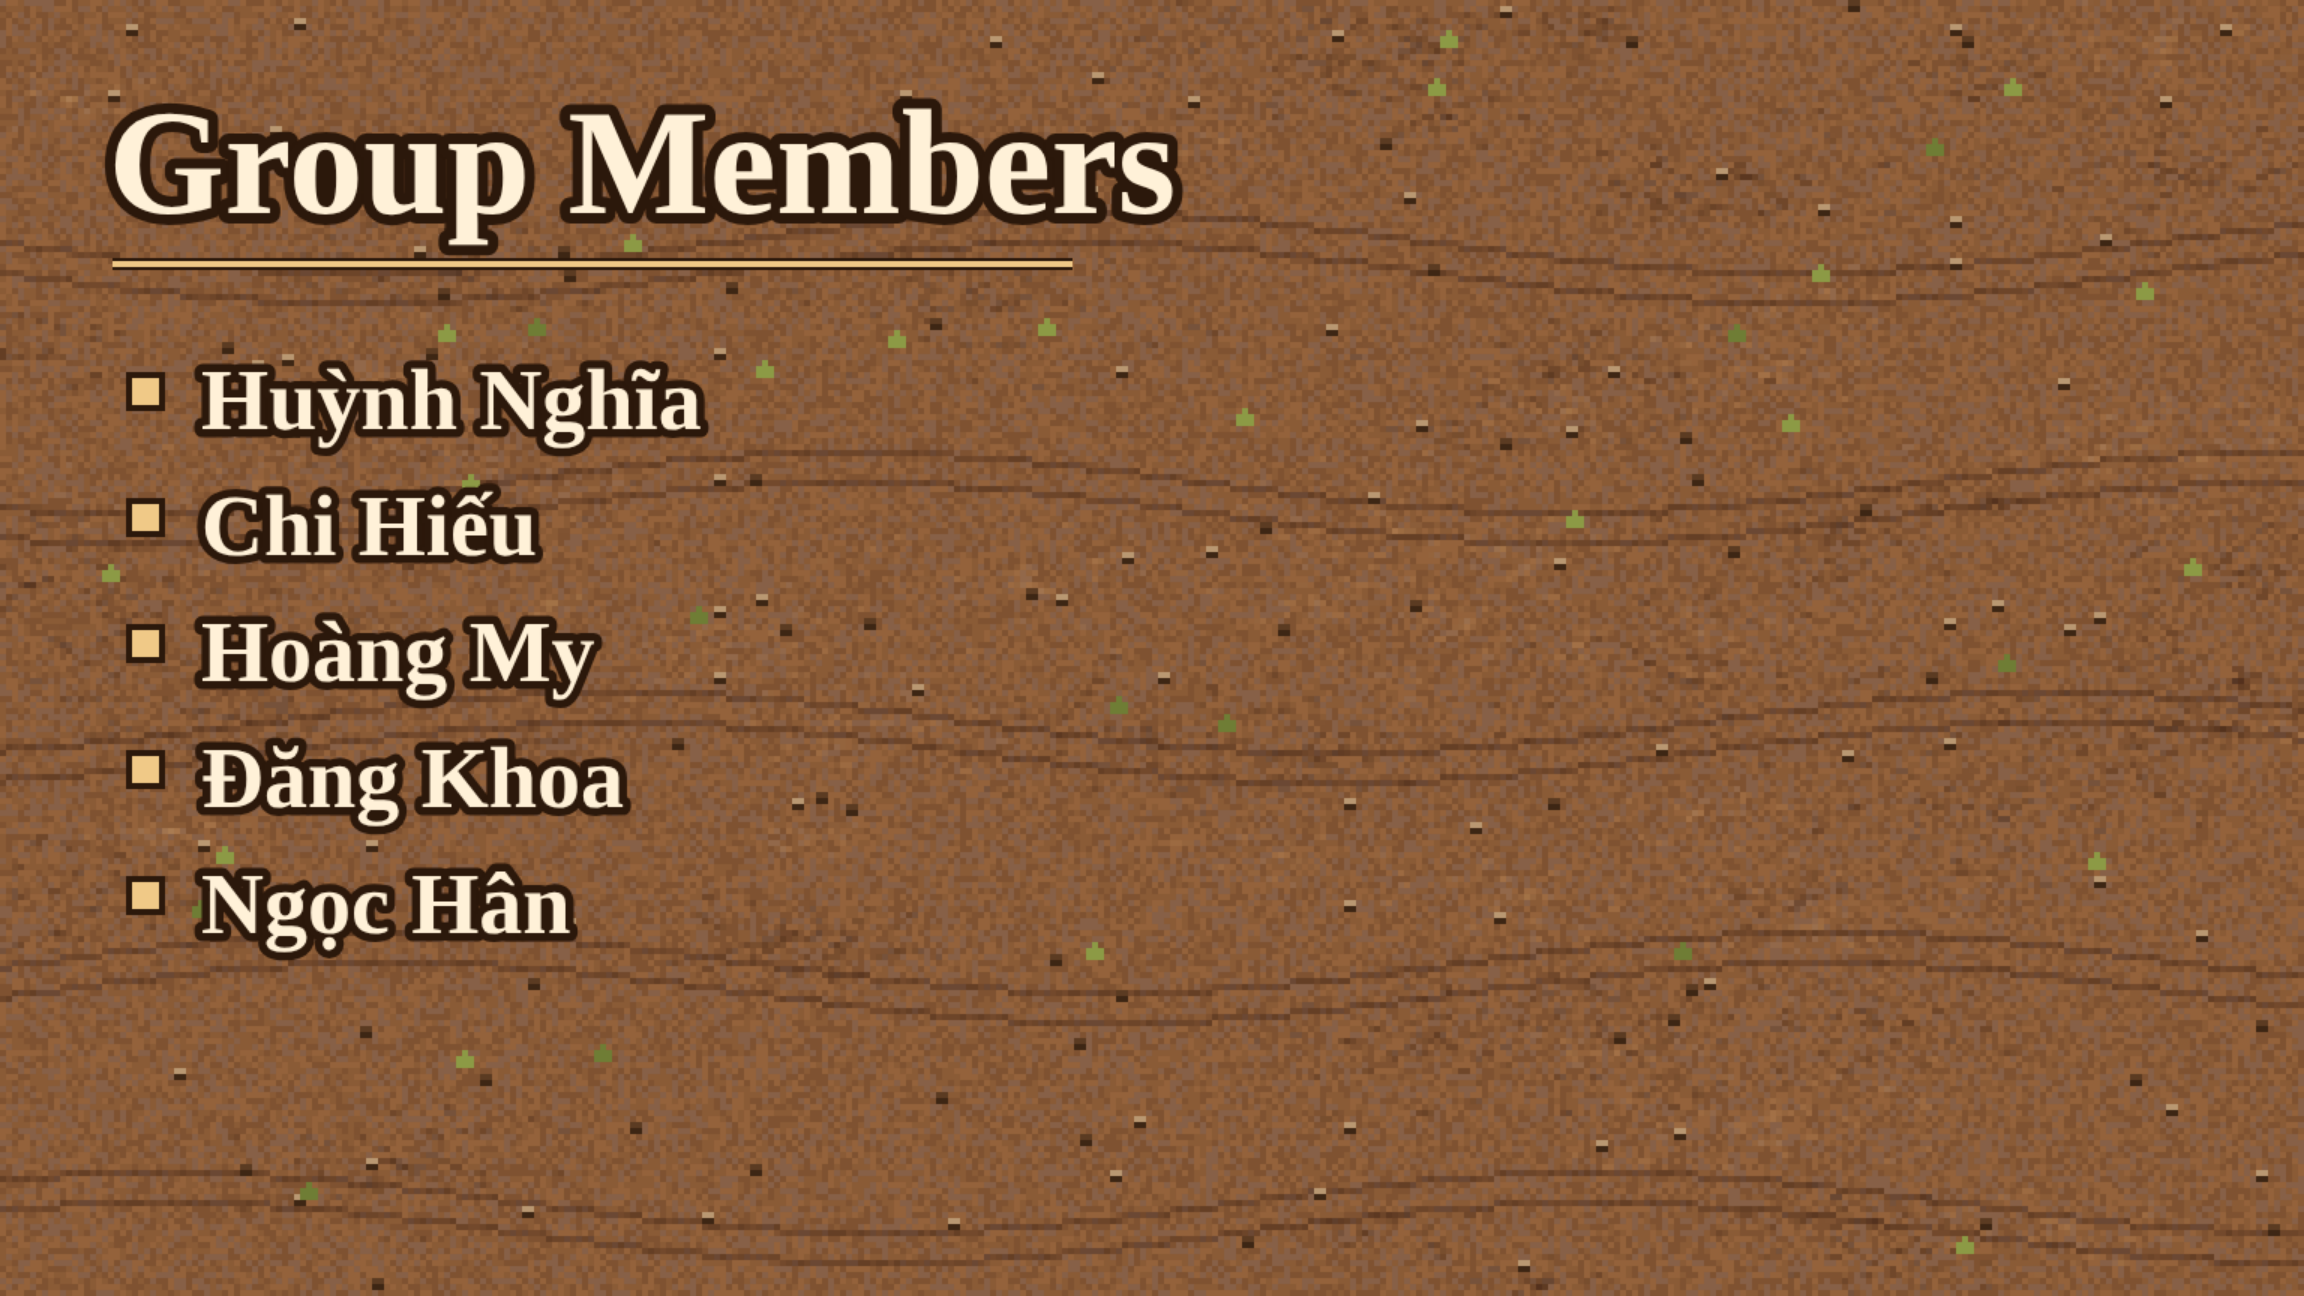
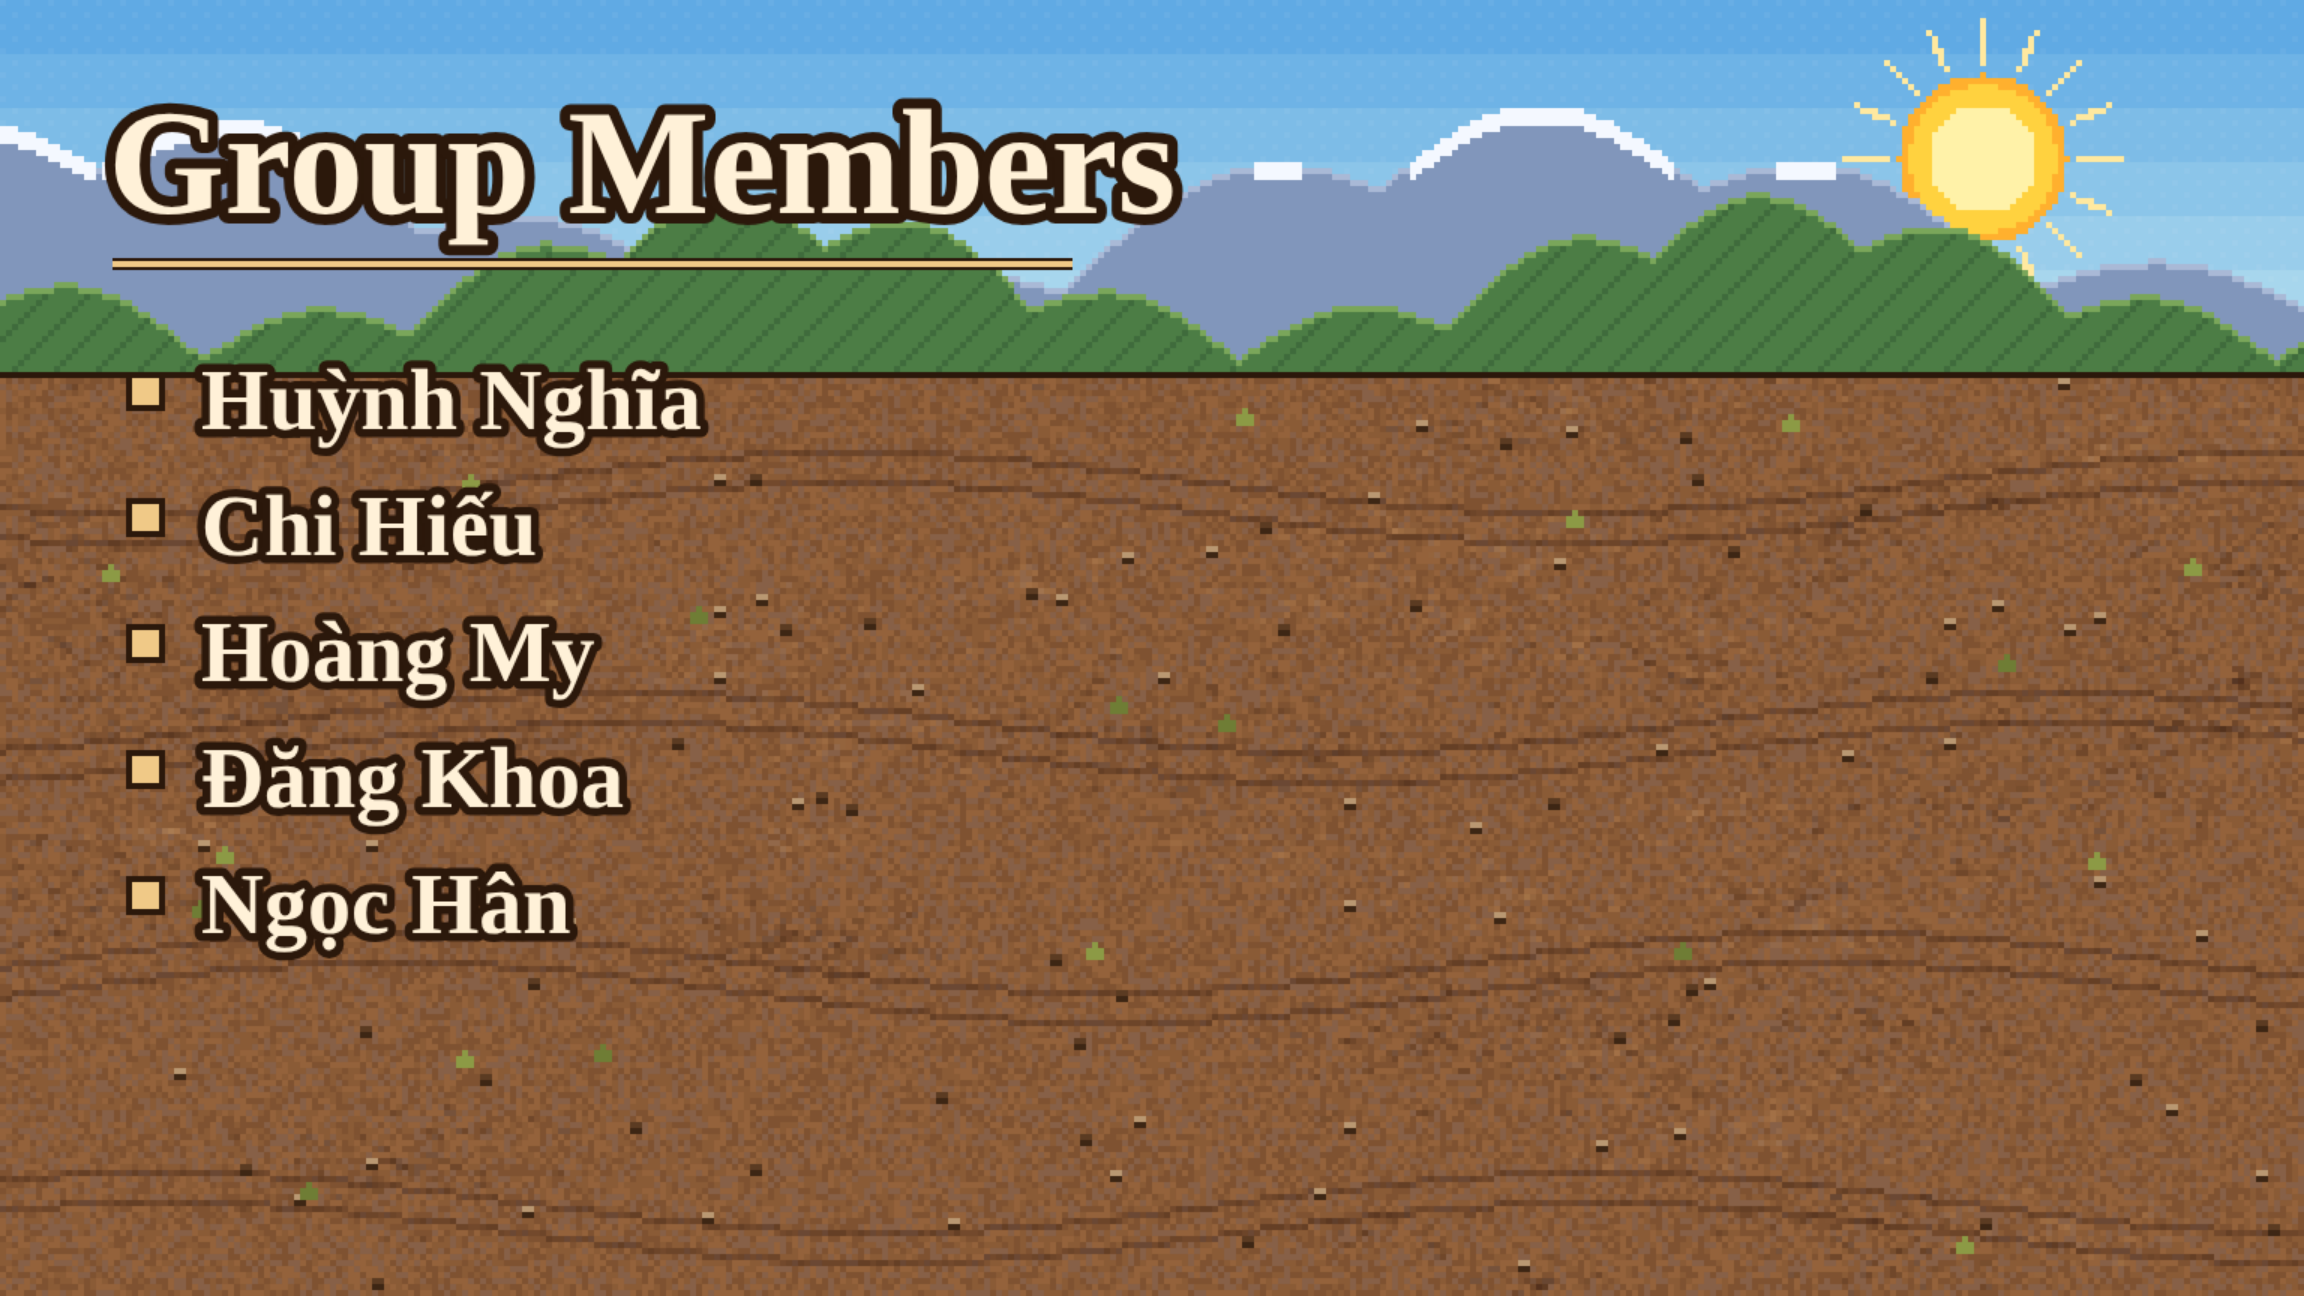
Slide 2: all stickmen normal with own colours; add sky, mountains, sun, clouds, airplane
Claude-Session: https://claude.ai/code/session_015dETkK63Reb6JNnJAvDzmD

Changed region(s): [[0.0, 0.0, 1.0, 0.3086]]

diff --git a/slide2-anim.html b/slide2-anim.html
@@ -71,8 +71,49 @@
       x.fillStyle = rnd() < 0.5 ? '#8c9a45' : '#6f7d35';
       x.fillRect(px, py, 1, 3); x.fillRect(px - 1, py + 1, 1, 2); x.fillRect(px + 1, py + 1, 1, 2);
     }
+    // bầu trời + núi + mặt trời (hàng 0..61 = y 0..247)
+    const HZ = 62;
+    for (let j = 0; j < HZ; j++) {
+      const u = j / HZ, band = Math.floor(u * 7) / 7;
+      x.fillStyle = 'rgb(' + Math.round(96 + band * 100) + ',' + Math.round(170 + band * 62) + ',' + Math.round(228 + band * 12) + ')'; x.fillRect(0, j, 384, 1);
+    }
+    for (let j = 0; j < HZ; j += 2) for (let i = (j % 4); i < 384; i += 4) { x.fillStyle = 'rgba(255,255,255,0.05)'; x.fillRect(i, j, 1, 1); }
+    // mặt trời
+    const SX = 330, SY = 26;
+    x.fillStyle = '#ffe9a0'; for (let a = 0; a < 16; a++) { const an = a / 16 * 6.283; for (let r = 16; r < 24; r++) x.fillRect(Math.round(SX + Math.cos(an) * r), Math.round(SY + Math.sin(an) * r), 1, 1); }
+    for (let j = -14; j <= 14; j++) for (let i = -14; i <= 14; i++) { const d = i * i + j * j; if (d <= 196) { x.fillStyle = d > 150 ? '#ffb02e' : d > 80 ? '#ffd23f' : '#fff2a8'; x.fillRect(SX + i, SY + j, 1, 1); } }
+    // núi xa (xanh nhạt) rồi núi gần (xanh rêu), có chóp tuyết
+    const ridge = (base, amp, f1, f2, ph) => { const a = []; for (let i = 0; i < 384; i++) a.push(Math.round(base - amp * (0.55 + 0.45 * Math.sin(i / f1 + ph)) - amp * 0.35 * Math.abs(Math.sin(i / f2 + ph * 2)))); return a; };
+    const far = ridge(HZ - 4, 30, 38, 17, 1.1), near = ridge(HZ, 22, 27, 11, 3.2);
+    for (let i = 0; i < 384; i++) {
+      for (let j = far[i]; j < HZ; j++) { x.fillStyle = j < far[i] + 3 && far[i] < 28 ? '#f4f8ff' : (j < far[i] + 1 ? '#a9b9d6' : '#8196bb'); x.fillRect(i, j, 1, 1); }
+    }
+    for (let i = 0; i < 384; i++) {
+      for (let j = near[i]; j < HZ; j++) { x.fillStyle = (j - near[i]) < 1 ? '#7aa65a' : ((i + j) % 7 === 0 ? '#3f6b3c' : '#4c7d45'); x.fillRect(i, j, 1, 1); }
+    }
+    x.fillStyle = '#2b180b'; x.fillRect(0, HZ, 384, 1);
   }
 
+
+  // ---------- Bầu trời động: mây trôi, máy bay bay ngang (vẽ trực tiếp, không nằm trong slide2.png) ----------
+  function drawSky(c, t) {
+    c.save(); c.imageSmoothingEnabled = false;
+    const cloud = (cx, cy, s) => {
+      c.fillStyle = 'rgba(0,0,0,0.08)'; [[0, 8, 120], [20, 0, 70], [60, -8, 60]].forEach(([dx, dy, w]) => c.fillRect(cx + dx * s, cy + (dy + 22) * s, w * s, 8 * s));
+      c.fillStyle = '#ffffff'; [[0, 8, 120, 16], [20, -4, 70, 20], [60, -12, 56, 20], [-4, 14, 128, 8]].forEach(([dx, dy, w, h]) => c.fillRect(Math.round((cx + dx * s) / 4) * 4, Math.round((cy + dy * s) / 4) * 4, Math.round(w * s / 4) * 4, Math.round(h * s / 4) * 4));
+    };
+    [[0.0, 40, 1.0, 14], [0.4, 120, 0.7, 9], [0.75, 70, 1.3, 19]].forEach(([o, y, s, v]) => { const x = ((o * 1900 + t * v * 4) % 1900) - 260; cloud(x, y, s); });
+    // máy bay: bay từ trái sang phải mỗi 15s, hơi chao nghiêng, để lại vệt khói trắng
+    const P = 15, ph = (t % P) / P, px = -200 + ph * (1536 + 400), py = 190 + Math.sin(t * 1.3) * 8 - ph * 18;
+    c.fillStyle = 'rgba(255,255,255,0.7)'; for (let k = 0; k < 28; k++) { const tx = px - 70 - k * 18; c.globalAlpha = 0.7 * (1 - k / 28); c.fillRect(Math.round(tx / 4) * 4, Math.round((py + 14) / 4) * 4, 16, 6); }
+    c.globalAlpha = 1; c.translate(Math.round(px / 4) * 4, Math.round(py / 4) * 4);
+    const rects = [['#1b0f06', -4, 0, 120, 28], ['#f2f2f2', 0, 4, 112, 20], ['#c9d3de', 0, 16, 112, 8], ['#e0392f', 8, 12, 88, 4],
+      ['#1b0f06', 76, 24, 40, 12], ['#c9d3de', 80, 24, 32, 8], ['#1b0f06', -8, -24, 28, 28], ['#e0392f', -4, -20, 20, 24],
+      ['#1b0f06', 112, 8, 16, 12], ['#7ec8ff', 96, 6, 12, 8], ['#7ec8ff', 80, 6, 12, 8], ['#7ec8ff', 64, 6, 12, 8],
+      ['#1b0f06', 30, 22, 48, 24], ['#d9e2ec', 34, 22, 40, 16]];
+    rects.forEach(([col, x, y, w, h]) => { c.fillStyle = col; c.fillRect(x, y, w, h); });
+    c.restore();
+  }
   // ---------- Nội dung ----------
   const NAMES = ['Huỳnh Nghĩa', 'Chi Hiếu', 'Hoàng My', 'Đăng Khoa', 'Ngọc Hân'];
   function drawContent(ctx) {
@@ -95,11 +136,11 @@
   // ---------- Người que ----------
   // path: các điểm (chân) đi vòng lặp; item: đồ cầm
   const FIG = [
-    { name: 'Huỳnh Nghĩa', f: 0, items: ['mic'], v: 95, path: [[800, 430], [1300, 390], [1430, 610], [1000, 570]] },
-    { name: 'Đăng Khoa', f: 0, items: ['camera'], v: 100, path: [[1450, 810], [1000, 770], [770, 700], [1100, 530], [1450, 520]] },
-    { name: 'Chi Hiếu', f: 0, items: ['lens'], v: 90, path: [[200, 790], [600, 830], [900, 710], [1100, 830], [500, 730]] },
-    { name: 'Hoàng My', f: 1, items: ['pencil', 'palette'], v: 85, path: [[900, 340], [1200, 340], [1450, 430], [1250, 660], [850, 510]] },
-    { name: 'Ngọc Hân', f: 1, items: ['frame', 'flower'], v: 80, path: [[1300, 790], [1450, 660], [1150, 650], [800, 830], [400, 810], [300, 750], [1000, 770]] },
+    { name: 'Huỳnh Nghĩa', f: 0, col: '#ff5a4f', items: ['mic'], v: 95, path: [[800, 430], [1300, 390], [1430, 610], [1000, 570]] },
+    { name: 'Đăng Khoa', f: 0, col: '#5fe06a', items: ['camera'], v: 100, path: [[1450, 810], [1000, 770], [770, 700], [1100, 530], [1450, 520]] },
+    { name: 'Chi Hiếu', f: 0, col: '#4fb0ff', items: ['lens'], v: 90, path: [[200, 790], [600, 830], [900, 710], [1100, 830], [500, 730]] },
+    { name: 'Hoàng My', f: 0, col: '#ff7be5', items: ['palette'], v: 85, path: [[900, 340], [1200, 340], [1450, 430], [1250, 660], [850, 510]] },
+    { name: 'Ngọc Hân', f: 0, col: '#ffd23f', items: ['frame'], v: 80, path: [[1300, 790], [1450, 660], [1150, 650], [800, 830], [400, 810], [300, 750], [1000, 770]] },
   ];
   FIG.forEach((F) => {
     F.seg = []; let tot = 0;
@@ -132,7 +173,7 @@
     c.fillStyle = 'rgba(0,0,0,0.22)'; c.beginPath(); c.ellipse(0, 0, 26, 7, 0, 0, 7); c.fill();
     const body = (col, lw) => { c.strokeStyle = col; c.lineWidth = lw; };
     for (const pass of [0, 1]) {                       // lượt 0: viền đen dày, lượt 1: nét trắng kem mảnh (người que dễ đọc trên nền đất)
-      body(pass ? '#fff1d8' : '#1b0f06', pass ? 5 : 10);
+      body(pass ? F.col : '#1b0f06', pass ? 5 : 10);
       // chân
       line(c, [[0, hipY - bob], [sw * 14, -26], [sw * 18, 0]]);
       line(c, [[0, hipY - bob], [-sw * 14, -26], [-sw * 18, 0]]);
@@ -149,7 +190,7 @@
       // đầu
       c.beginPath(); c.arc(0, headY, 17, 0, 7); c.stroke();
     }
-    c.fillStyle = '#fff1d8'; c.beginPath(); c.arc(0, headY, 15.5, 0, 7); c.fill();
+    c.fillStyle = F.col; c.beginPath(); c.arc(0, headY, 15.5, 0, 7); c.fill();
     c.fillStyle = '#1b0f06'; c.fillRect(5, headY - 4, 3, 3); c.fillRect(-4, headY - 4, 3, 3);   // mắt
     if (F.f) {                                         // tóc dài
       c.strokeStyle = '#1b0f06'; c.lineWidth = 6;
@@ -163,7 +204,7 @@
     c.restore();
     if (labelAlpha > 0) {
       c.save(); c.globalAlpha = labelAlpha; c.font = '700 24px Tinos, "Liberation Serif", serif'; c.textAlign = 'center'; c.lineJoin = 'round';
-      c.lineWidth = 6; c.strokeStyle = '#1b0f06'; c.fillStyle = '#fff1d8';
+      c.lineWidth = 6; c.strokeStyle = '#1b0f06'; c.fillStyle = F.col;
       const ly = p.y - 122 * S - 30 - bob; c.strokeText(F.name, p.x, ly); c.fillText(F.name, p.x, ly); c.restore();
     }
   }
@@ -228,6 +269,7 @@
   const penStart = T_IN + 0.1;
   function drawScene(ctx, figs, labelA) {
     ctx.imageSmoothingEnabled = false; ctx.drawImage(ground, 0, 0, W, H);
+    if (!BARE) drawSky(ctx, WT);
     drawContent(ctx);
     if (figs) { const arr = FIG.map((F) => [figAt(F, WT).y, F]).sort((a, b) => a[0] - b[0]); arr.forEach(([, F]) => drawFig(ctx, F, WT, labelA)); }
   }
@@ -238,6 +280,7 @@
       const a = clamp((T - (T_DONE + 0.6)) / 0.3);
       g.clearRect(0, 0, W, H);
       if (a < 1) { g.globalAlpha = 1 - a; drawScene(g, false, 0); g.globalAlpha = 1; }
+      else drawSky(g, WT);
       FIG.map((F) => [figAt(F, WT).y, F]).sort((a, b) => a[0] - b[0]).forEach(([, F]) => drawFig(g, F, WT, 1));
       return;
     }
